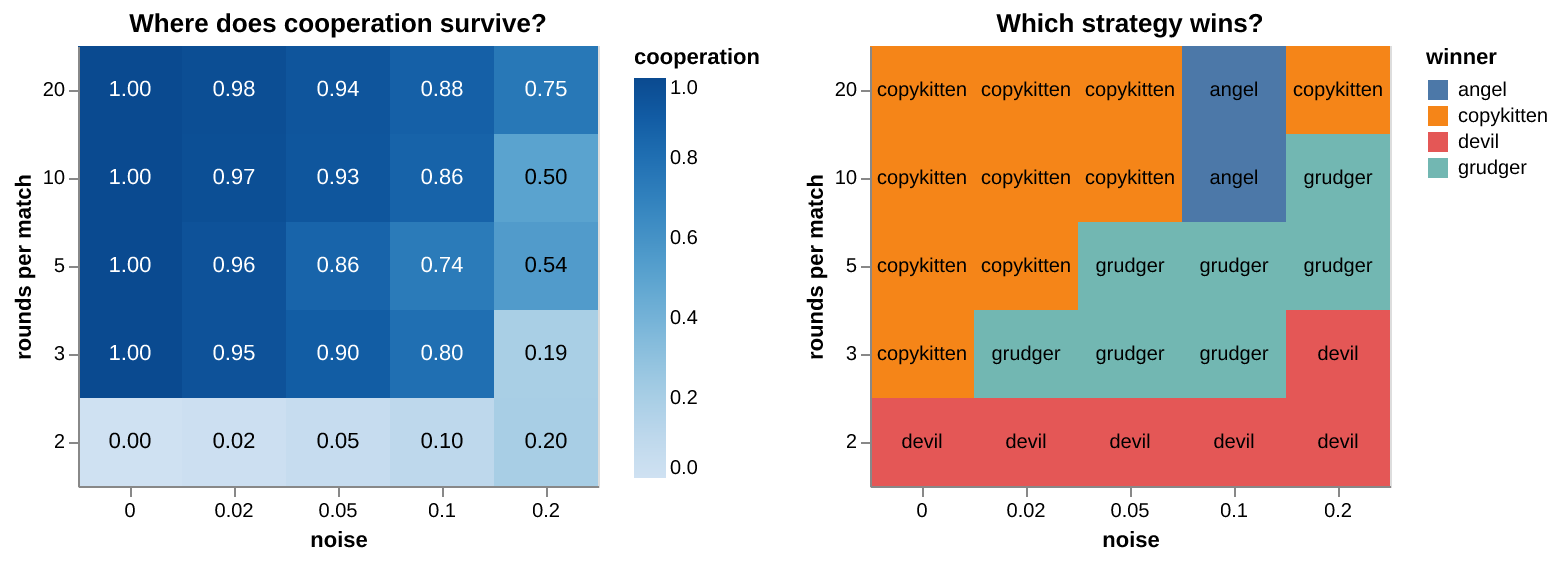
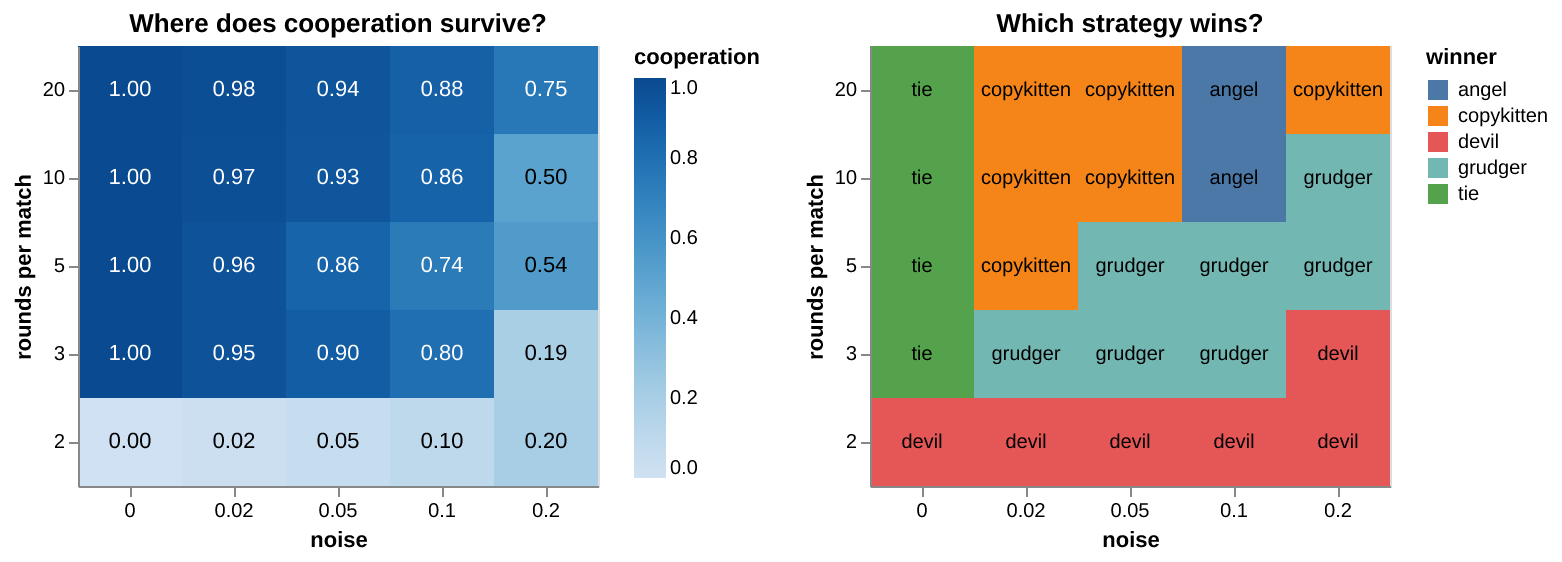
Seed fixes from rehearsal: winner tie rule (spec + target), spec no longer names the sting's bug, gitignore report/summary/settings.local

Changed region(s): [[0.5531, 0.0605, 0.6453, 0.726], [0.8912, 0.3327, 0.9526, 0.363]]

diff --git a/targets/spec.md b/targets/spec.md
@@ -30,8 +30,8 @@ enough.
 | **Copycat vs Copycat** | cooperative (20 / 20) | necessary but **not sufficient** |
 | **Copycat vs Devil** | **−1 / +3** | the discriminating check |
 
-If Copycat vs Devil gives −10 / +30, Copycat never retaliated — it's reading the
-wrong history. One "obvious" test (self-play) passes anyway; that's the lesson.
+If Copycat vs Devil gives −10 / +30, Copycat never retaliated. One "obvious" test
+(self-play) passes anyway; that's the lesson.
 
 ## Follow-up targets (pinned computation)
 
@@ -57,4 +57,4 @@ strategy wins there?
 | seeds | 0, 1, 2 |
 | one run's file | `results/sim/rounds-{rounds}_noise-{noise}_seed-{seed}.csv` |
 | cooperation (left map) | last generation's share of cooperative moves, **mean over seeds** |
-| winner (right map) | largest group in the last generation, **most common across seeds** |
+| winner (right map) | per seed: the largest group in the last generation (`tie` if several share the top); across seeds: the **strict majority**, else `tie` |
